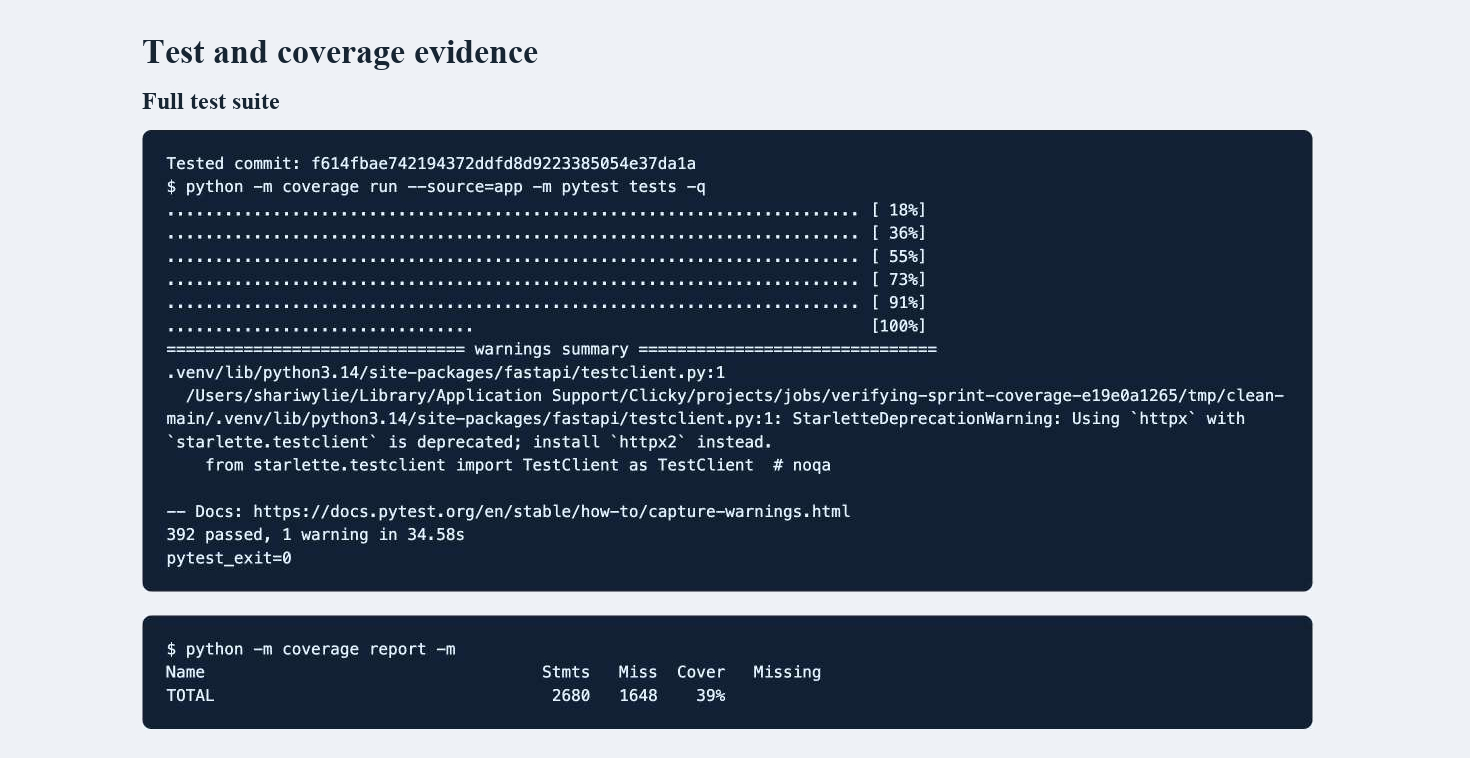
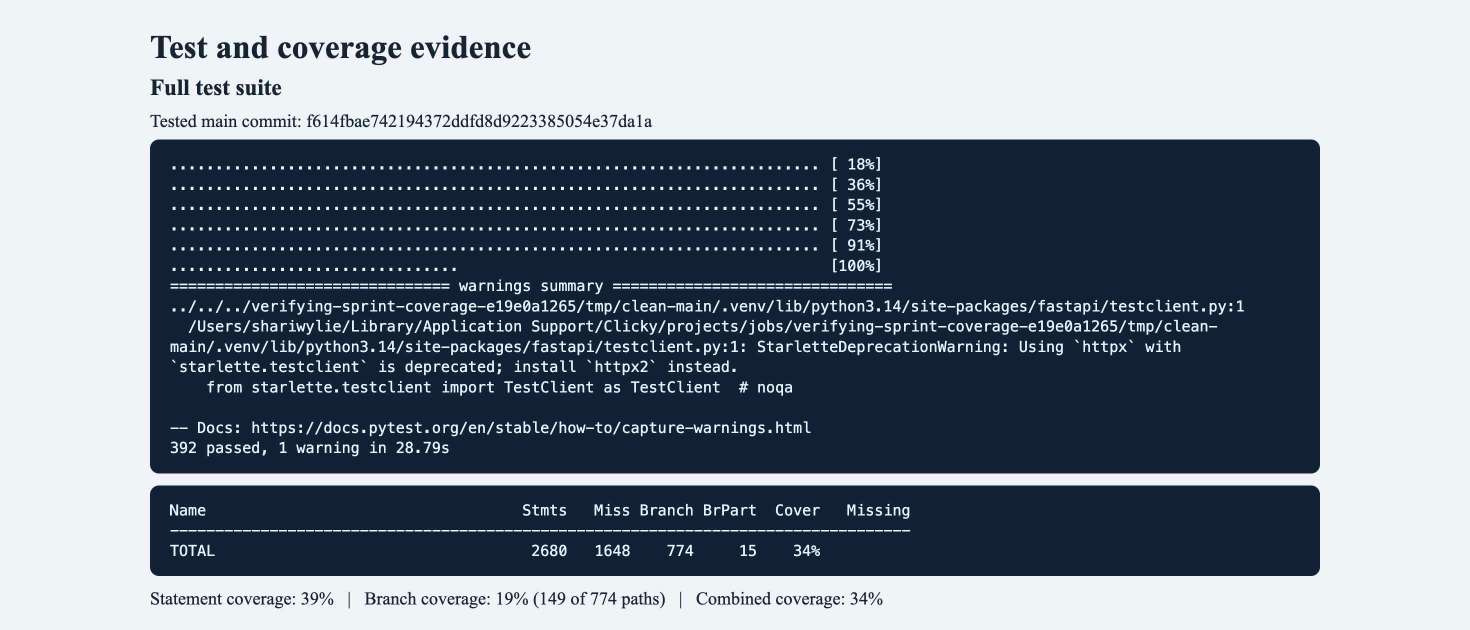
Update coverage evidence with branch results

Changed region(s): [[0.0918, 0.1206, 0.9184, 0.9651], [0.0918, 0.0302, 0.3673, 0.1206]]

diff --git a/docs/screenshots.md b/docs/screenshots.md
@@ -2,6 +2,6 @@
 
 ## Test and coverage evidence
 
-![Test results and app statement coverage for main commit f614fba](screenshots/task-22-test-and-coverage.jpg)
+![Test results and coverage for main commit f614fba](screenshots/task-22-test-and-coverage.jpg)
 
-Tested main commit `f614fba`: **392 tests passed**, with **39% app statement coverage**. The screenshot shows the actual test and coverage output; branch coverage was not measured.
+Tested main commit `f614fba`: **392 tests passed**, with **39% app statement coverage** and **19% branch coverage** (149 of 774 branch paths). The coverage report's **34%** is combined statement and branch coverage.
